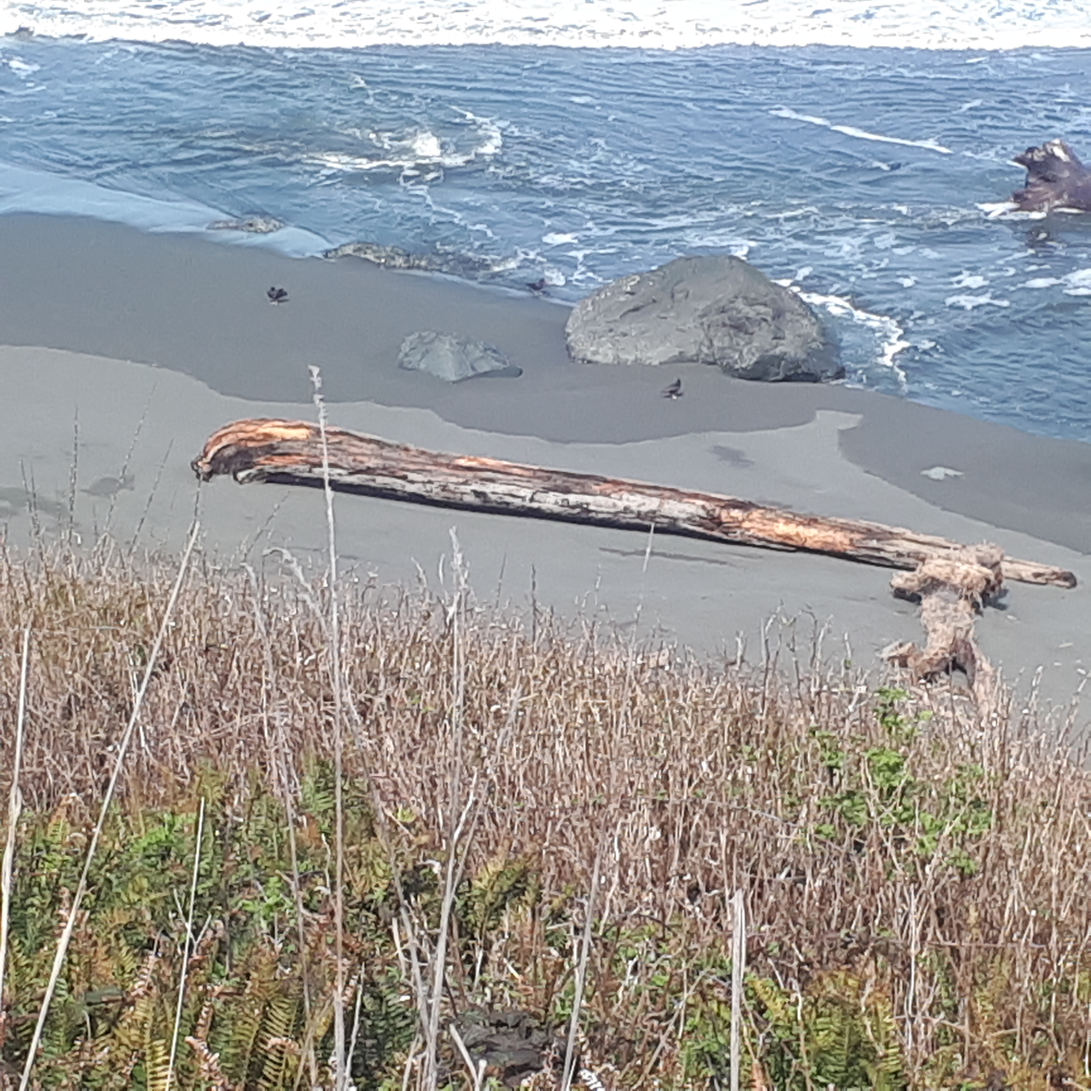
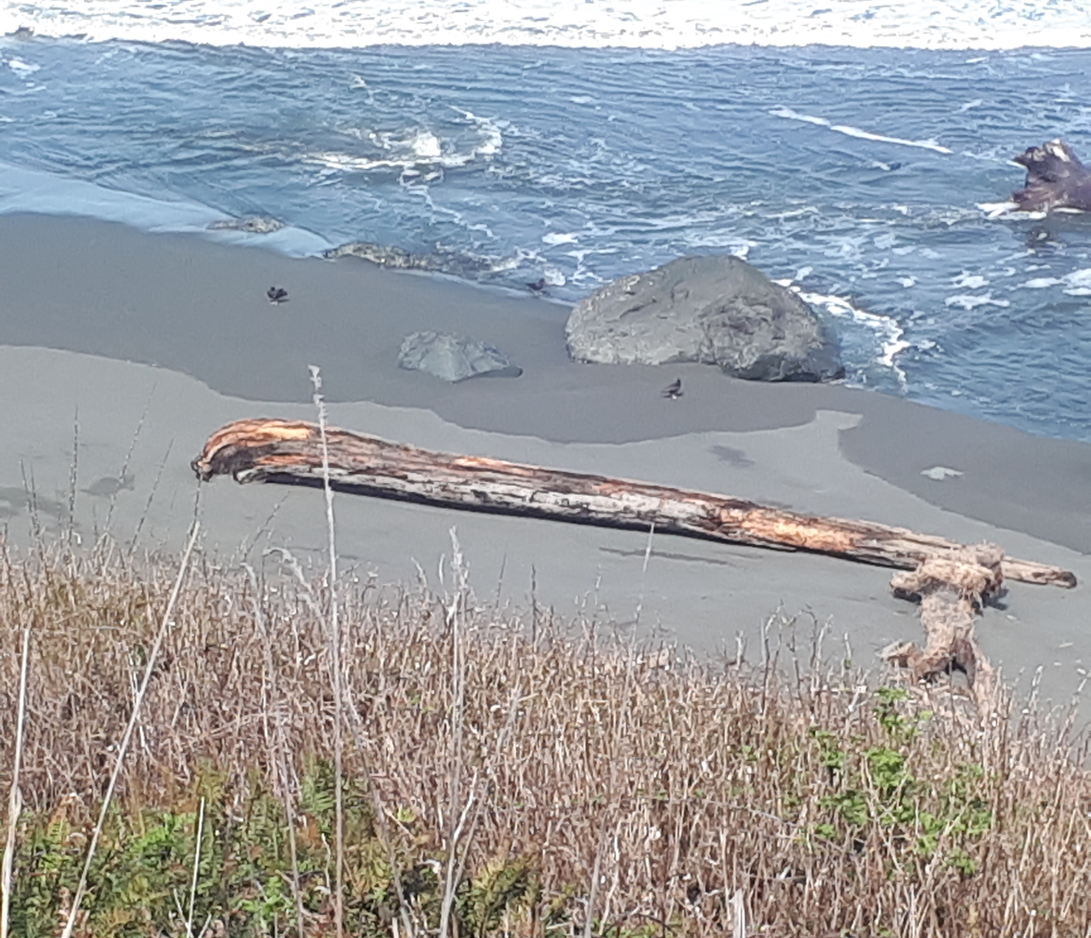
Update local beach image and adjust its height

diff --git a/source/src/pages/index.tsx b/source/src/pages/index.tsx
@@ -686,8 +686,7 @@ const IndexPage: React.FC<PageProps> = () => {
                         <img
                           src={localBeachWithLogImage}
                           alt="Beach with driftwood log"
-                          className="w-full rounded-lg shadow-md object-cover"
-                          style={{ maxHeight: "370px" }}
+                          className="w-full rounded-lg shadow-md object-cover h-[370px]"
                           loading="lazy"
                         />
                       </div>
